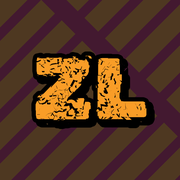
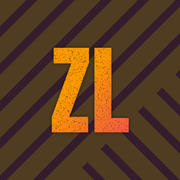
Nieuw ZL-app-icoon v2 (alle formaten), cache v16

diff --git a/index.html b/index.html
@@ -11,10 +11,11 @@
   <meta name="description" content="Zeiklijst Live — takenlijst voor intern afdelingsgebruik">
   <title>Zeiklijst Live</title>
   <link rel="preconnect" href="https://www.gstatic.com" crossorigin>
-  <link rel="manifest" href="manifest.webmanifest">
-  <link rel="icon" type="image/png" href="icons/icon-192.png">
-  <link rel="apple-touch-icon" href="icons/apple-touch-icon.png">
-  <link rel="stylesheet" href="styles.css?v=15">
+  <link rel="manifest" href="manifest.webmanifest?v=16">
+  <link rel="icon" type="image/png" sizes="32x32" href="icons/favicon-32.png?v=16">
+  <link rel="icon" href="favicon.ico?v=16" sizes="any">
+  <link rel="apple-touch-icon" href="icons/apple-touch-icon.png?v=16">
+  <link rel="stylesheet" href="styles.css?v=16">
 </head>
 <body class="guest-app is-locked">
   <header>
@@ -212,7 +213,7 @@
 
   <div id="toast" class="toast hidden" role="status" aria-live="polite"></div>
 
-  <script src="app-version.js?v=15"></script>
-  <script type="module" src="app.js?v=15"></script>
+  <script src="app-version.js?v=16"></script>
+  <script type="module" src="app.js?v=16"></script>
 </body>
 </html>

diff --git a/sw.js b/sw.js
@@ -1,5 +1,5 @@
 importScripts("./app-version.js");
-const CACHE_NAME = self.APP_CACHE_NAME || "zeiklijst-v15";
+const CACHE_NAME = self.APP_CACHE_NAME || "zeiklijst-v16";
 const FIREBASE_SDK = "12.6.0";
 const ASSETS = [
   "./",
@@ -14,6 +14,10 @@ const ASSETS = [
   "./icons/icon-192.png",
   "./icons/icon-512.png",
   "./icons/apple-touch-icon.png",
+  "./icons/icon-maskable-192.png",
+  "./icons/icon-maskable-512.png",
+  "./icons/favicon-32.png",
+  "./favicon.ico",
   "./fonts/rubik-dirt.woff2",
   "./fonts/protest-guerrilla.woff2",
   "./fonts/rubik-distressed.woff2",

diff --git a/app-version.js b/app-version.js
@@ -1,2 +1,2 @@
-const APP_CACHE_NAME = "zeiklijst-v15";
+const APP_CACHE_NAME = "zeiklijst-v16";
 if (typeof self !== "undefined") self.APP_CACHE_NAME = APP_CACHE_NAME;
